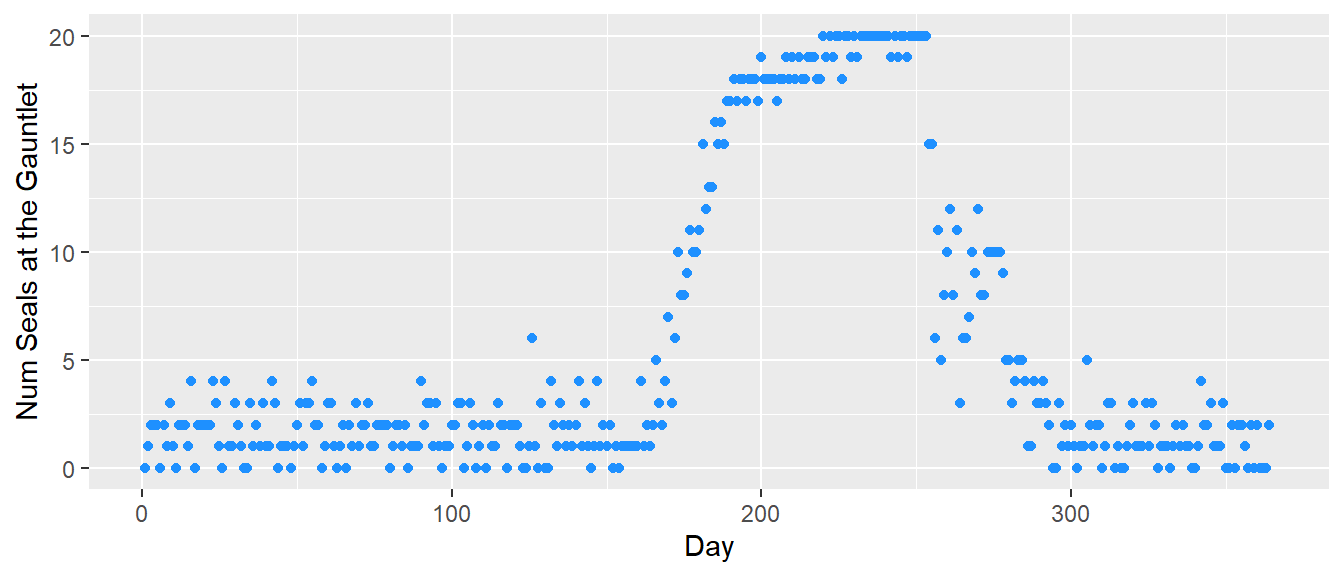
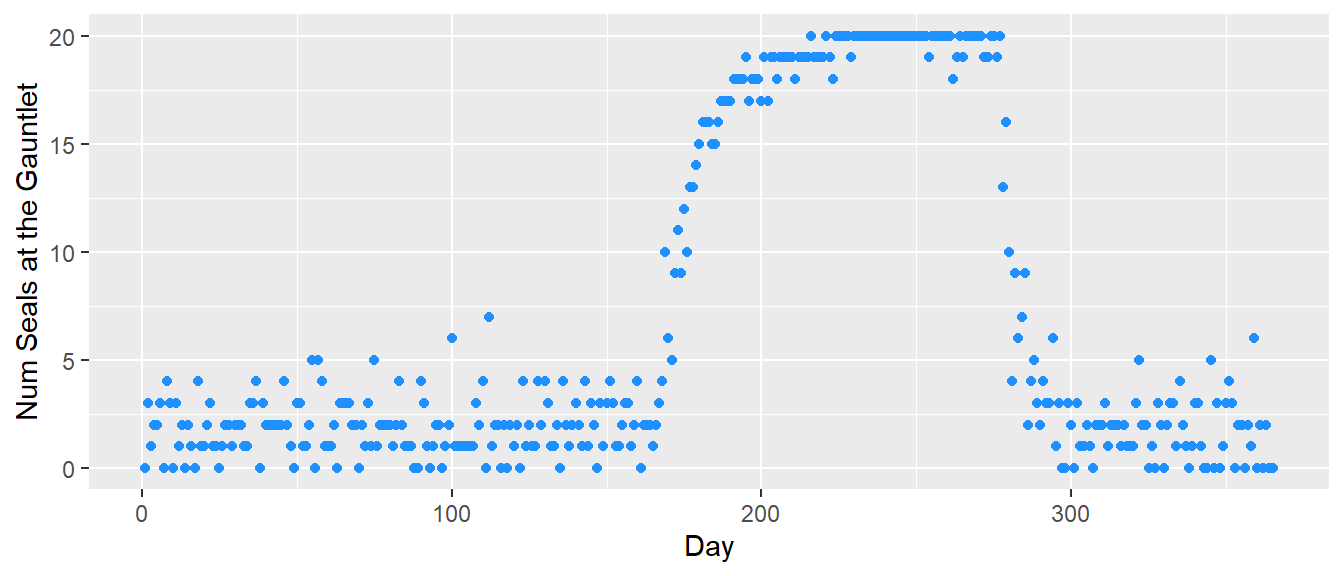
knitted

diff --git a/docs/docs/ZoneExclusion.html b/docs/docs/ZoneExclusion.html
@@ -10,7 +10,7 @@
 
 
 
-<meta name="date" content="2024-04-04" />
+<meta name="date" content="2024-04-08" />
 
 <title>Experiment: Exclusion Zone Implementation</title>
 
@@ -276,7 +276,7 @@ $(document).ready(function () {
 Implementation</h1>
 <h3 class="subtitle">Describing the model run when an exclusion zone
 management strategy is implemented</h3>
-<h4 class="date">April 04, 2024</h4>
+<h4 class="date">April 08, 2024</h4>
 
 </div>
 
@@ -478,13 +478,13 @@ Coho
 <tbody>
 <tr>
 <td style="text-align:right;">
-18559.05
+18561.28
 </td>
 <td style="text-align:right;">
-288.7885
+288.8998
 </td>
 <td style="text-align:right;">
-1634.24
+1634.289
 </td>
 </tr>
 </tbody>
@@ -495,76 +495,6 @@ Gauntlet, and survival. Colors are independent seals.
 <table class="kable_wrapper">
 <tbody>
 <tr>
-<td>
-<table>
-<thead>
-<tr class="header">
-<th align="right">x</th>
-</tr>
-</thead>
-<tbody>
-<tr class="odd">
-<td align="right">2</td>
-</tr>
-</tbody>
-</table>
-</td>
-<td>
-<table>
-<thead>
-<tr class="header">
-<th align="right">x</th>
-</tr>
-</thead>
-<tbody>
-<tr class="odd">
-<td align="right">11</td>
-</tr>
-</tbody>
-</table>
-</td>
-<td>
-<table>
-<thead>
-<tr class="header">
-<th align="right">x</th>
-</tr>
-</thead>
-<tbody>
-<tr class="odd">
-<td align="right">6</td>
-</tr>
-</tbody>
-</table>
-</td>
-<td>
-<table>
-<thead>
-<tr class="header">
-<th align="right">x</th>
-</tr>
-</thead>
-<tbody>
-<tr class="odd">
-<td align="right">7</td>
-</tr>
-</tbody>
-</table>
-</td>
-<td>
-<table>
-<thead>
-<tr class="header">
-<th align="right">x</th>
-</tr>
-</thead>
-<tbody>
-<tr class="odd">
-<td align="right">19</td>
-</tr>
-</tbody>
-</table>
-</td>
 <td>
 <table>
 <thead>
@@ -588,7 +518,35 @@ Gauntlet, and survival. Colors are independent seals.
 </thead>
 <tbody>
 <tr class="odd">
+<td align="right">18</td>
+</tr>
+</tbody>
+</table>
+</td>
+<td>
+<table>
+<thead>
+<tr class="header">
+<th align="right">x</th>
+</tr>
+</thead>
+<tbody>
+<tr class="odd">
 <td align="right">1</td>
+</tr>
+</tbody>
+</table>
+</td>
+<td>
+<table>
+<thead>
+<tr class="header">
+<th align="right">x</th>
+</tr>
+</thead>
+<tbody>
+<tr class="odd">
+<td align="right">16</td>
 </tr>
 </tbody>
 </table>
@@ -630,21 +588,7 @@ Gauntlet, and survival. Colors are independent seals.
 </thead>
 <tbody>
 <tr class="odd">
-<td align="right">9</td>
-</tr>
-</tbody>
-</table>
-</td>
-<td>
-<table>
-<thead>
-<tr class="header">
-<th align="right">x</th>
-</tr>
-</thead>
-<tbody>
-<tr class="odd">
-<td align="right">16</td>
+<td align="right">11</td>
 </tr>
 </tbody>
 </table>
@@ -672,6 +616,34 @@ Gauntlet, and survival. Colors are independent seals.
 </thead>
 <tbody>
 <tr class="odd">
+<td align="right">9</td>
+</tr>
+</tbody>
+</table>
+</td>
+<td>
+<table>
+<thead>
+<tr class="header">
+<th align="right">x</th>
+</tr>
+</thead>
+<tbody>
+<tr class="odd">
+<td align="right">19</td>
+</tr>
+</tbody>
+</table>
+</td>
+<td>
+<table>
+<thead>
+<tr class="header">
+<th align="right">x</th>
+</tr>
+</thead>
+<tbody>
+<tr class="odd">
 <td align="right">20</td>
 </tr>
 </tbody>
@@ -686,7 +658,35 @@ Gauntlet, and survival. Colors are independent seals.
 </thead>
 <tbody>
 <tr class="odd">
-<td align="right">17</td>
+<td align="right">7</td>
+</tr>
+</tbody>
+</table>
+</td>
+<td>
+<table>
+<thead>
+<tr class="header">
+<th align="right">x</th>
+</tr>
+</thead>
+<tbody>
+<tr class="odd">
+<td align="right">6</td>
+</tr>
+</tbody>
+</table>
+</td>
+<td>
+<table>
+<thead>
+<tr class="header">
+<th align="right">x</th>
+</tr>
+</thead>
+<tbody>
+<tr class="odd">
+<td align="right">13</td>
 </tr>
 </tbody>
 </table>
@@ -714,20 +714,6 @@ Gauntlet, and survival. Colors are independent seals.
 </thead>
 <tbody>
 <tr class="odd">
-<td align="right">12</td>
-</tr>
-</tbody>
-</table>
-</td>
-<td>
-<table>
-<thead>
-<tr class="header">
-<th align="right">x</th>
-</tr>
-</thead>
-<tbody>
-<tr class="odd">
 <td align="right">10</td>
 </tr>
 </tbody>
@@ -742,7 +728,21 @@ Gauntlet, and survival. Colors are independent seals.
 </thead>
 <tbody>
 <tr class="odd">
-<td align="right">13</td>
+<td align="right">17</td>
+</tr>
+</tbody>
+</table>
+</td>
+<td>
+<table>
+<thead>
+<tr class="header">
+<th align="right">x</th>
+</tr>
+</thead>
+<tbody>
+<tr class="odd">
+<td align="right">12</td>
 </tr>
 </tbody>
 </table>

diff --git a/docs/docs/BaseRunRealm.html b/docs/docs/BaseRunRealm.html
@@ -10,7 +10,7 @@
 
 
 
-<meta name="date" content="2024-04-02" />
+<meta name="date" content="2024-04-08" />
 
 <title>The Base Run Realm</title>
 
@@ -257,6 +257,9 @@ $(document).ready(function () {
 <li>
   <a href="TestMoreSeals.html">More Seals</a>
 </li>
+<li>
+  <a href="ZoneExclusion.html">Exc Zone</a>
+</li>
       </ul>
       <ul class="nav navbar-nav navbar-right">
         
@@ -271,7 +274,7 @@ $(document).ready(function () {
 
 <h1 class="title toc-ignore">The Base Run Realm</h1>
 <h3 class="subtitle">Describing the Base Run</h3>
-<h4 class="date">April 02, 2024</h4>
+<h4 class="date">April 08, 2024</h4>
 
 </div>
 
@@ -355,6 +358,36 @@ indicates ambivalence and means the seal is more receptive to social
 influence. A P_G closer to 0 or 1 indicates a strong opinion that will
 not allow the incorporation of social information.</p>
 <p><img src="BaseRunRealm_files/figure-html/plot7-1.png" width="672" /></p>
+<p>The total escaped sockeye, chinook, and Coho are as follows under
+this parameterization:</p>
+<table class="table" style="color: black; width: auto !important; margin-left: auto; margin-right: auto;">
+<thead>
+<tr>
+<th style="text-align:right;">
+Sockeye
+</th>
+<th style="text-align:right;">
+Chinook
+</th>
+<th style="text-align:right;">
+Coho
+</th>
+</tr>
+</thead>
+<tbody>
+<tr>
+<td style="text-align:right;">
+18404.04
+</td>
+<td style="text-align:right;">
+270.0978
+</td>
+<td style="text-align:right;">
+1598.928
+</td>
+</tr>
+</tbody>
+</table>
 </div>
 <div id="parameter-table" class="section level4">
 <h4>Parameter Table</h4>
